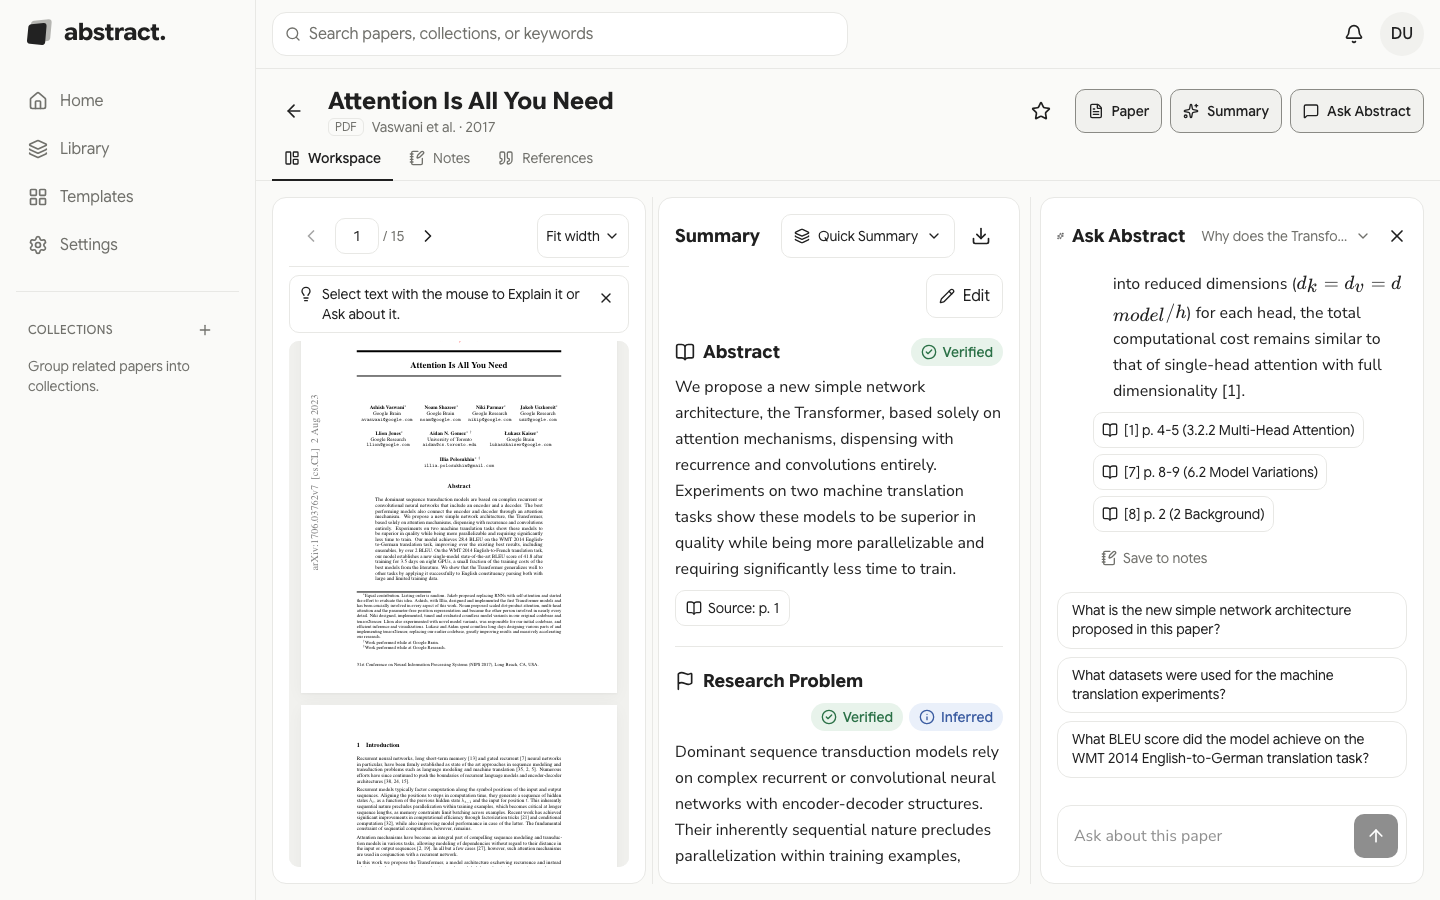
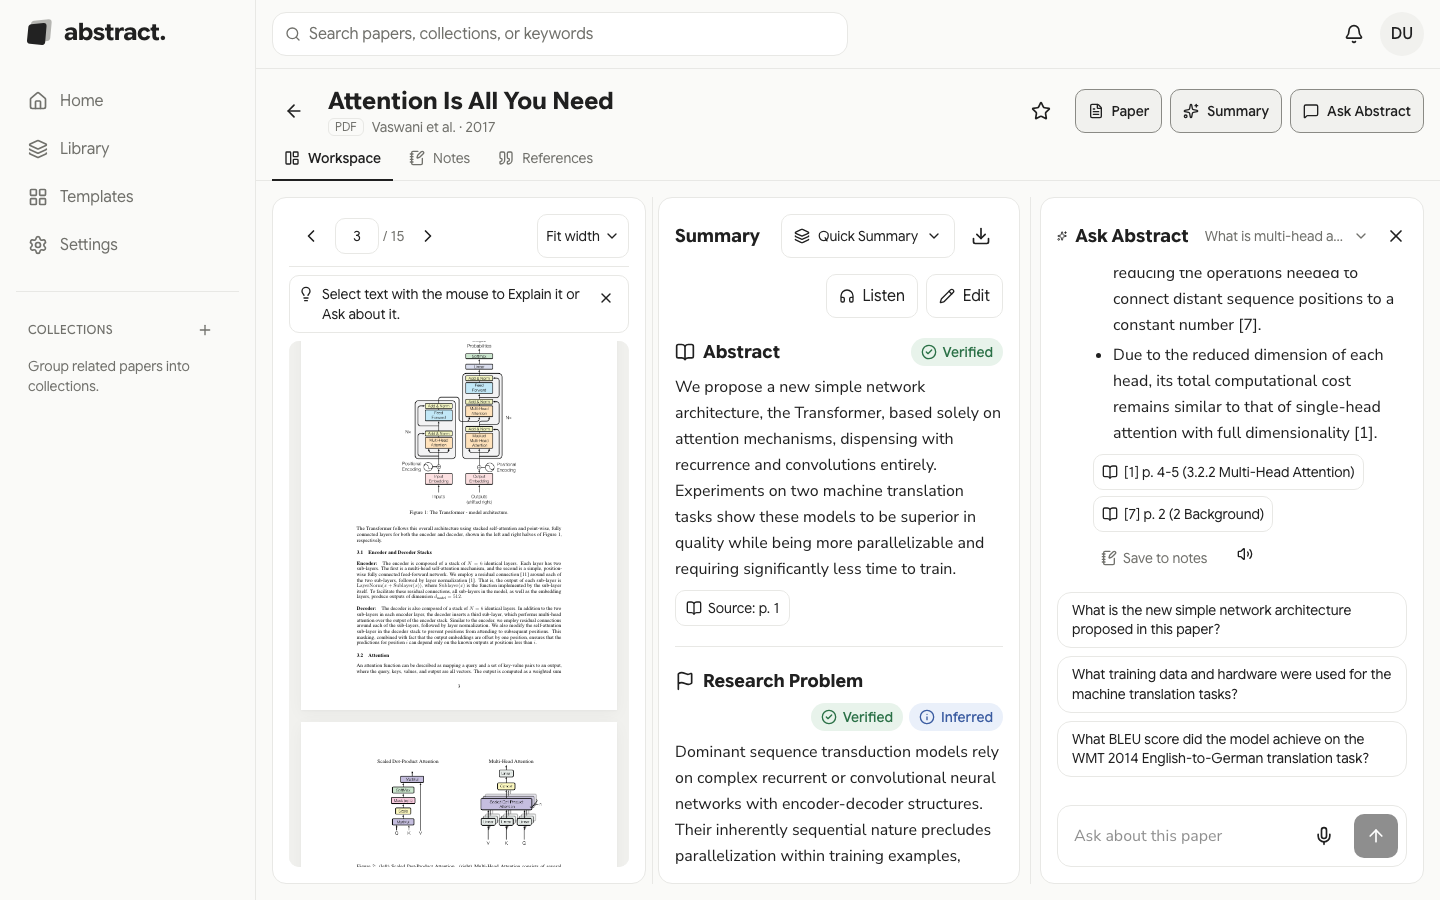
docs: hero screenshot shows Listen and the microphone

diff --git a/README.md b/README.md
@@ -19,7 +19,7 @@ Upload a research paper, get a structured summary from a template you choose, an
 
 **[Live demo](https://abstract.oshadhakariyawasam.me)** · [Architecture](#architecture) · [Run it locally](#run-it-locally) · [How it was built](#how-it-was-built)
 
-<picture><source media="(prefers-color-scheme: dark)" srcset="docs/images/workspace-dark.png"><img src="docs/images/workspace-light.png" alt="The Abstract workspace: the paper on the left, its summary with Verified sources in the middle, and a cited answer in Ask Abstract on the right" width="100%"></picture>
+<picture><source media="(prefers-color-scheme: dark)" srcset="docs/images/workspace-dark.png"><img src="docs/images/workspace-light.png" alt="The Abstract workspace: the paper on the left, its summary with Verified sources and Listen in the middle, and a cited answer in Ask Abstract with the microphone on the right" width="100%"></picture>
 
 </div>
 
